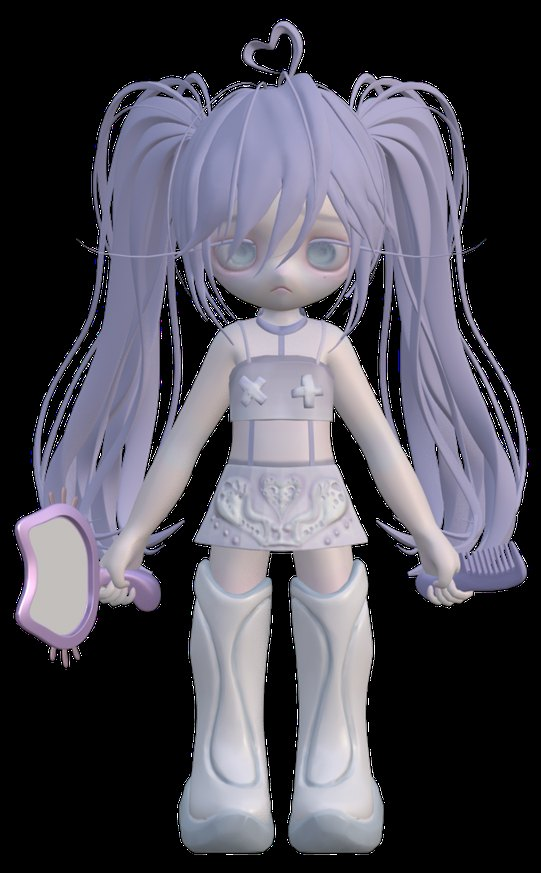
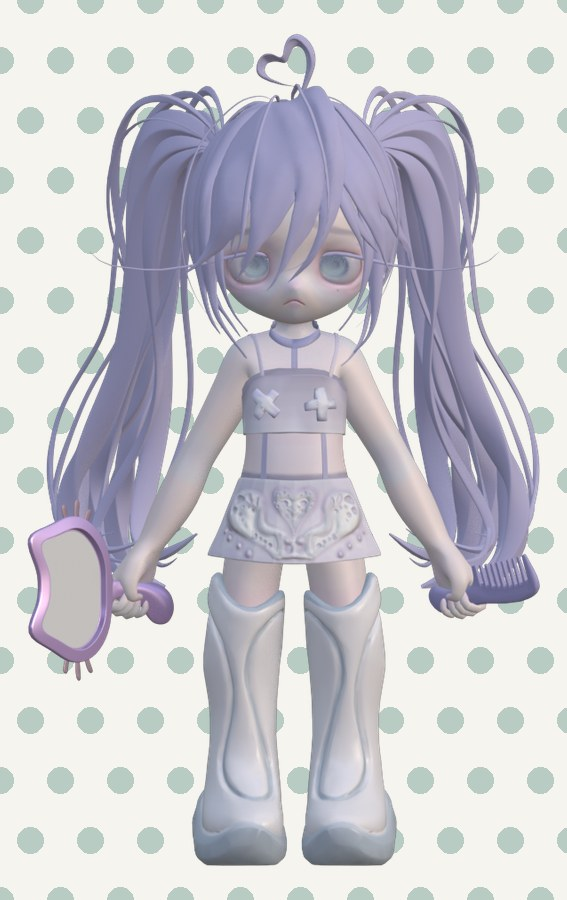
19,20번 Space 한 장씩 보기 추가, 캐릭터 누끼 배경을 앱과 같은 민트 도트로 교체

diff --git a/index.html b/index.html
@@ -376,12 +376,21 @@ ul.dash li b{color:var(--ink); font-weight:700}
 }
 body.lb-on #lightbox{display:flex}
 #lightbox img{
-  max-width:100%; max-height:74vh; object-fit:contain; display:block;
+  max-width:100%; max-height:68vh; object-fit:contain; display:block;
   border-radius:18px; border:1px solid var(--line); box-shadow:var(--shadow-lg);
 }
 #lightbox .lb-cap{
   font-family:var(--font-title); font-weight:800; color:var(--ink);
   font-size:calc(clamp(22px,2.4vw,36px) * var(--title-scale)); letter-spacing:-.02em;
+}
+#lightbox .lb-sub{
+  max-width:min(1100px, 88vw); text-align:center; color:var(--dim); line-height:1.55;
+  font-size:calc(clamp(17px,1.5vw,23px) * var(--body-scale)); margin-top:-6px;
+}
+#lightbox .lb-sub .lbtool{
+  display:inline-block; font-family:var(--mono); color:var(--main-700);
+  border:1px solid var(--main-200); background:var(--main-050);
+  border-radius:999px; padding:3px 13px; margin-bottom:9px;
 }
 #lightbox .lb-n{
   position:absolute; top:22px; right:clamp(24px,5vw,90px);
@@ -602,8 +611,8 @@ body.editing .demo-tools{ display:none }
   box-shadow:var(--shadow); position:relative;
 }
 .pstep .pimg{
-  flex:0 0 auto; overflow:hidden; background:#0d1512;
-  height:clamp(150px, calc((100vh - 680px) / 2), 320px);
+  flex:0 0 auto; overflow:hidden; background:#fff;
+  height:clamp(140px, calc((100vh - 780px) / 2), 300px);
 }
 .pstep .pimg img{width:100%; height:100%; object-fit:contain; display:block}
 .pstep .pbody{flex:0 0 auto; padding:9px 10px 11px}
@@ -634,15 +643,15 @@ body.editing .demo-tools{ display:none }
 /* ===== Face Puppet ===== */
 .fpchars{display:grid; grid-template-columns:repeat(4,minmax(0,1fr)); gap:13px; margin-top:14px}
 .fpchar{margin:0; border-radius:13px; overflow:hidden; border:1px solid var(--line);
-  background:#0d1512; box-shadow:var(--shadow); position:relative;
-  height:clamp(190px, calc(100vh - 650px), 480px)}
+  background:#F5F4EF; box-shadow:var(--shadow); position:relative;
+  height:clamp(180px, calc(100vh - 700px), 450px)}
 .fpchar img{object-fit:contain}
 .fpchar img{width:100%; height:100%; object-fit:cover; display:block}
 .fpchar figcaption{
-  position:absolute; left:0; right:0; bottom:0; padding:26px 10px 8px; color:#fff;
-  font-family:var(--font-title); font-weight:700; text-align:center;
+  position:absolute; left:50%; transform:translateX(-50%); bottom:10px;
+  padding:5px 16px; border-radius:999px; color:#fff; background:rgba(10,22,19,.72);
+  font-family:var(--font-title); font-weight:700; text-align:center; backdrop-filter:blur(4px);
   font-size:calc(17px * var(--title-scale) * var(--fs-k, 1));
-  background:linear-gradient(to top, rgba(10,22,19,.9), rgba(10,22,19,0));
 }
 .fixrow{display:grid; grid-template-columns:repeat(3,minmax(0,1fr)); gap:14px}
 .fix{background:var(--card); border:1px solid var(--line); border-radius:14px; padding:16px 18px; box-shadow:var(--shadow); position:relative}
@@ -1319,7 +1328,8 @@ body.editing .demo-tools{ display:none }
   <div class="wrap">
     <div class="eyebrow rv">18 — Modeling Pipeline</div>
     <h2 class="rv">캐릭터 한 명이 <em>엔진에 서기까지</em>, 7단계</h2>
-    <p class="lede rv" style="margin-bottom:16px">원화부터 엔진 반입까지 전 과정을 직접 수행했습니다. <strong>리토폴로지에서 관절 가동을 미리 계산</strong>해 둔 덕분에 뒤의 리깅·애니메이션에서 되돌아온 작업이 없었습니다.</p>
+    <p class="lede rv" style="margin-bottom:10px">원화부터 엔진 반입까지 전 과정을 직접 수행했습니다. <strong>리토폴로지에서 관절 가동을 미리 계산</strong>해 둔 덕분에 뒤의 리깅·애니메이션에서 되돌아온 작업이 없었습니다.</p>
+    <div class="tags rv" style="margin-bottom:12px"><span class="stephint">⎵ Space — 한 단계씩 크게 보기</span></div>
     <div class="pipe stagger">
       <figure class="pstep"><span class="pn">1</span>
         <div class="pimg"><img src="assets/pipeline/01-concept.jpg" alt="컨셉 아트"></div>
@@ -1370,7 +1380,8 @@ body.editing .demo-tools{ display:none }
   <div class="wrap">
     <div class="eyebrow rv">19 — Face Puppet · Feature</div>
     <h2 class="rv">웹캠 하나로 <em>캐릭터가 나를 따라 합니다</em></h2>
-    <p class="lede rv">앞서 보여드린 페이스 트래킹 데모의 구현 내용입니다. 설치 없이 <strong>링크 접속만으로</strong> 동작하며, 전시장에서 방문객이 바로 쓸 수 있도록 만들었습니다.</p>
+    <p class="lede rv" style="margin-bottom:10px">앞서 보여드린 페이스 트래킹 데모의 구현 내용입니다. 설치 없이 <strong>링크 접속만으로</strong> 동작하며, 전시장에서 방문객이 바로 쓸 수 있도록 만들었습니다.</p>
+    <div class="tags rv" style="margin-bottom:12px"><span class="stephint">⎵ Space — 캐릭터 한 명씩 크게 보기</span></div>
     <div class="grid g4 stagger" style="gap:13px">
       <div class="card cy">
         <span class="tag c">Expression</span>
@@ -2094,20 +2105,29 @@ window.__flash = function(btn, msg, ok){
   var lb = document.createElement('div');
   lb.id = 'lightbox';
   lb.innerHTML = '<div class="lb-n"></div><img alt=""><div class="lb-cap"></div>'
+               + '<div class="lb-sub"></div>'
                + '<div class="lb-hint">Space 다음 사진 · ↑ 이전 · Esc 닫기</div>';
   document.body.appendChild(lb);
   var lbList = [], lbIdx = -1;
 
+  var LB_SEL = '.tonegrid .tone, .pipe .pstep, .fpchars .fpchar';
   function lbFigures(sec){
-    return sec ? Array.prototype.slice.call(sec.querySelectorAll('.tonegrid .tone')) : [];
+    return sec ? Array.prototype.slice.call(sec.querySelectorAll(LB_SEL)) : [];
   }
   function lbShow(i){
     var fig = lbList[i]; if (!fig) return;
     var img = fig.querySelector('img'); if (!img) return;
     lbIdx = i;
     lb.querySelector('img').src = img.getAttribute('src');
-    var cap = fig.querySelector('figcaption');
-    lb.querySelector('.lb-cap').textContent = cap ? cap.textContent.trim() : (img.alt || '');
+    var t  = fig.querySelector('.pt');                 // 파이프라인 단계명
+    var cap = fig.querySelector('figcaption');         // 톤앤매너 · 캐릭터 이름
+    lb.querySelector('.lb-cap').textContent =
+      t ? t.textContent.trim() : (cap ? cap.textContent.trim() : (img.alt || ''));
+    var tool = fig.querySelector('.pe'), desc = fig.querySelector('.pd');
+    var sub = '';
+    if (tool) sub += '<span class="lbtool">' + tool.textContent.trim() + '</span><br>';
+    if (desc) sub += desc.innerHTML;
+    lb.querySelector('.lb-sub').innerHTML = sub;
     lb.querySelector('.lb-n').textContent = (i + 1) + ' / ' + lbList.length;
     document.body.classList.add('lb-on');
   }
